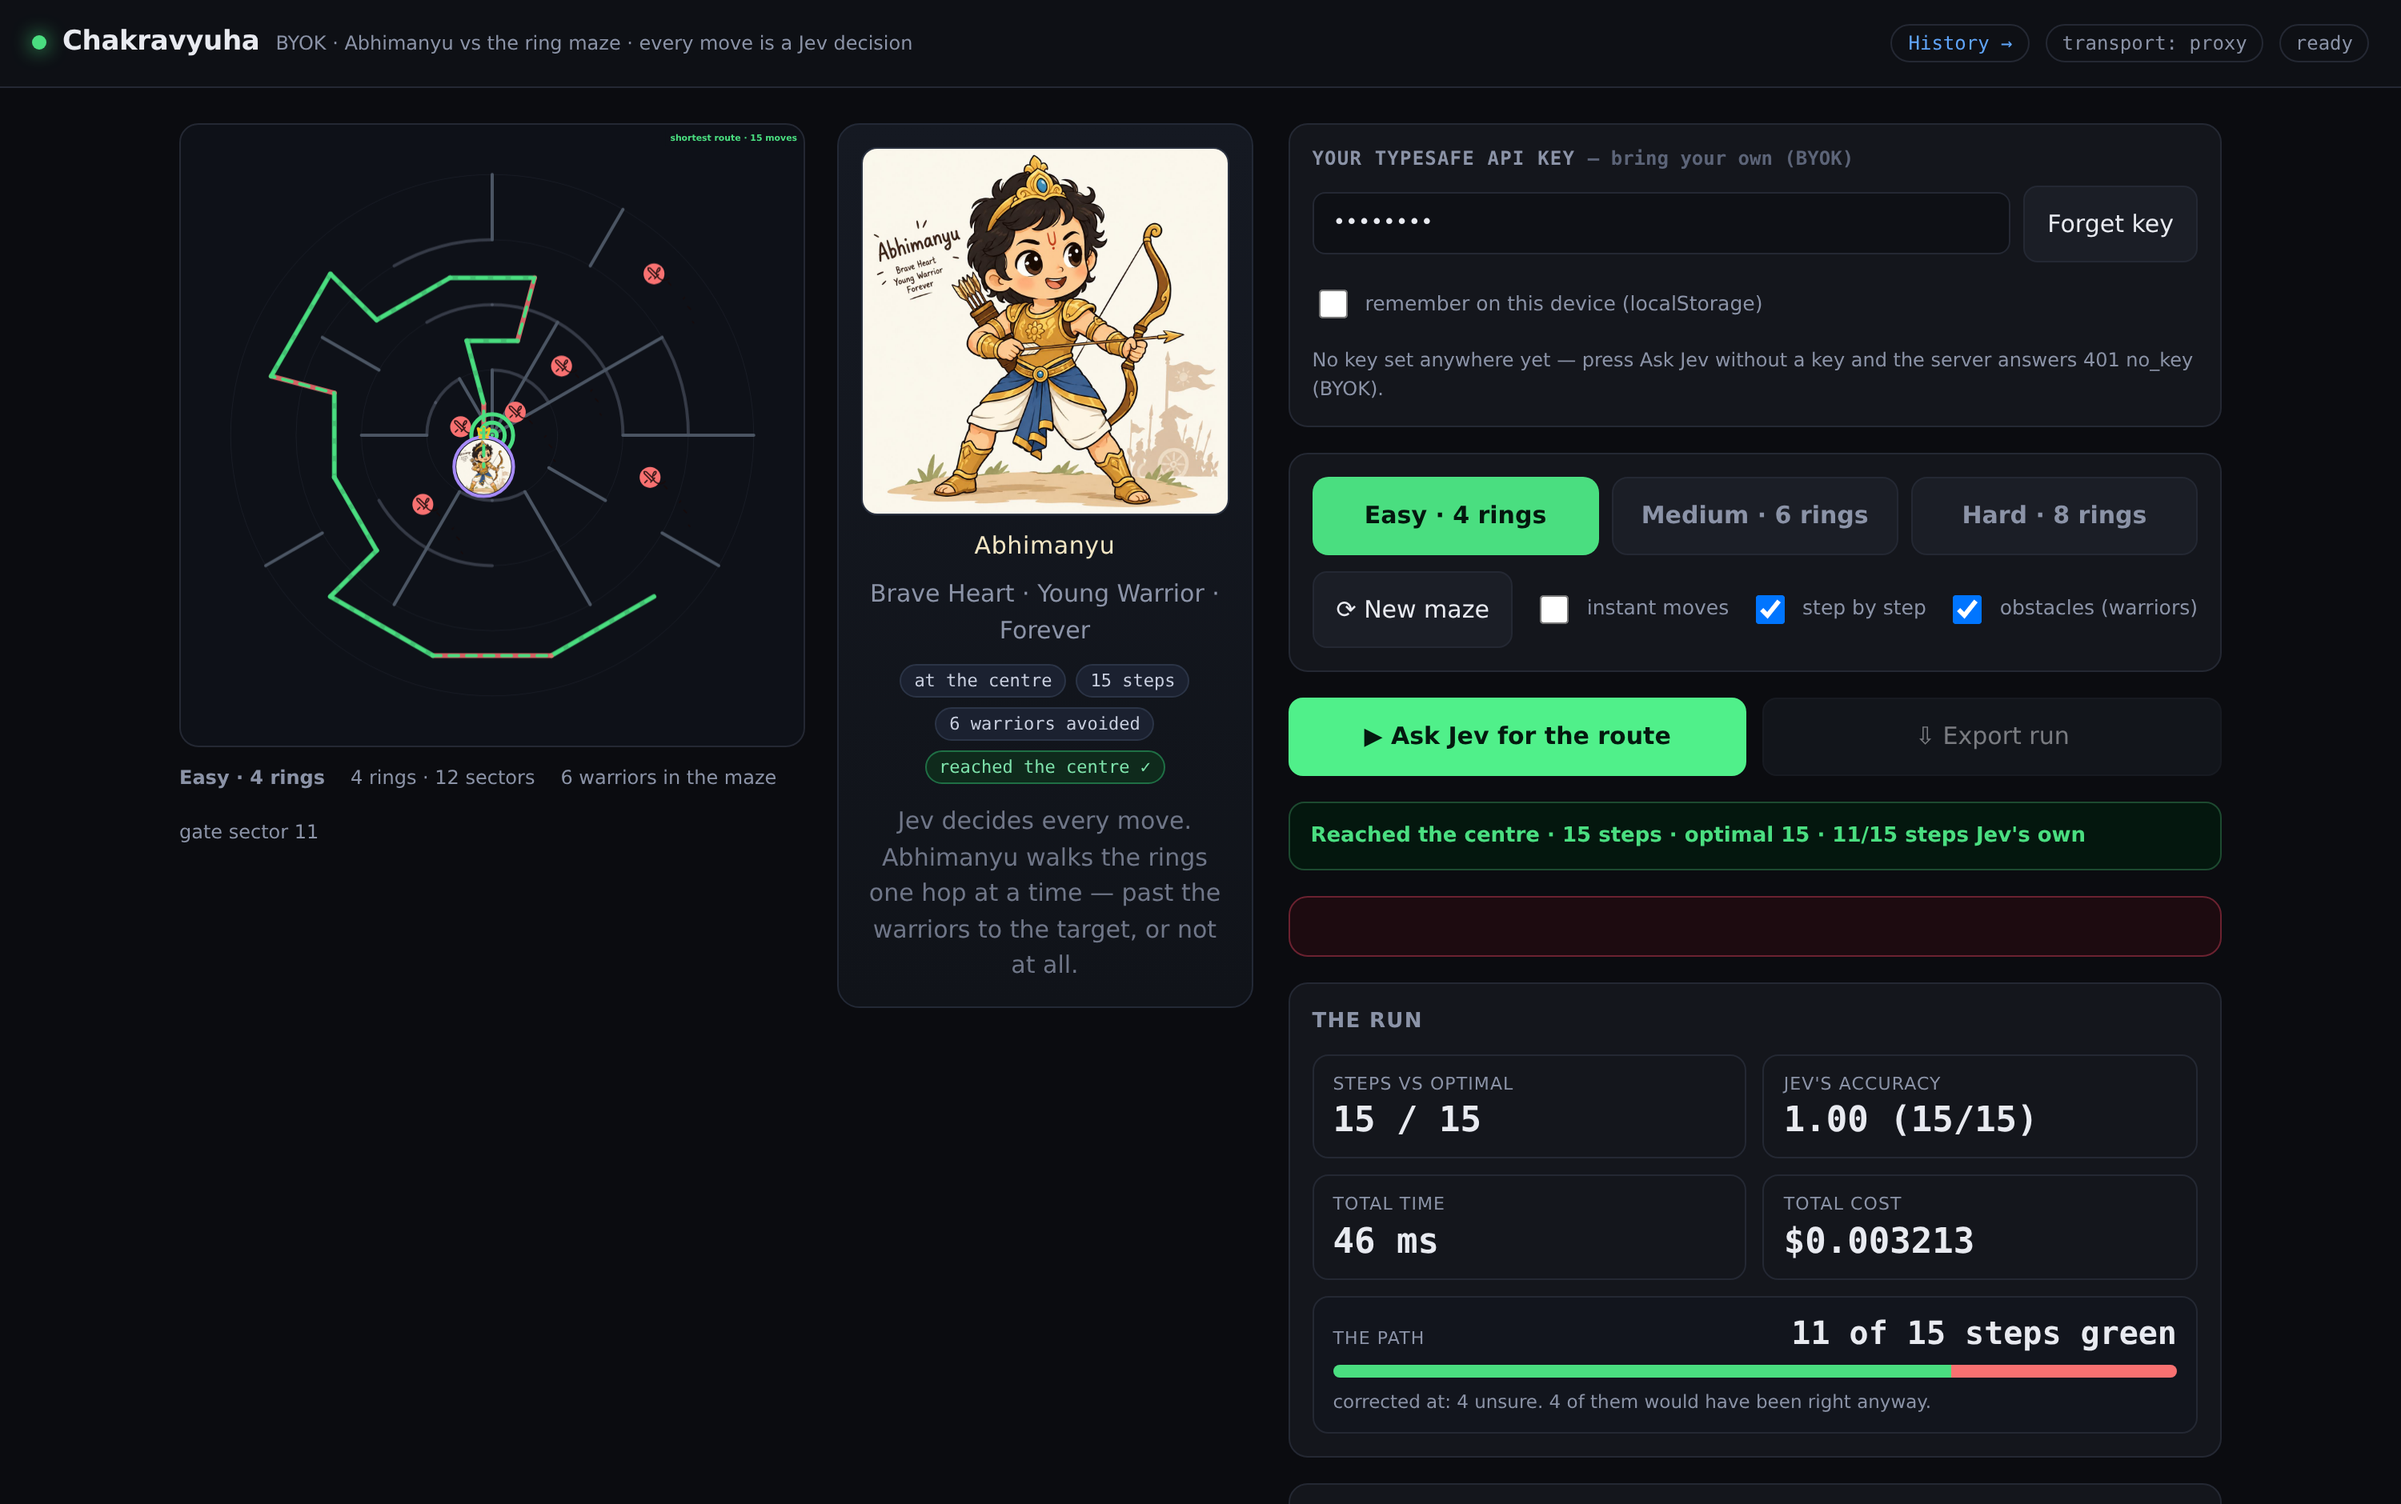
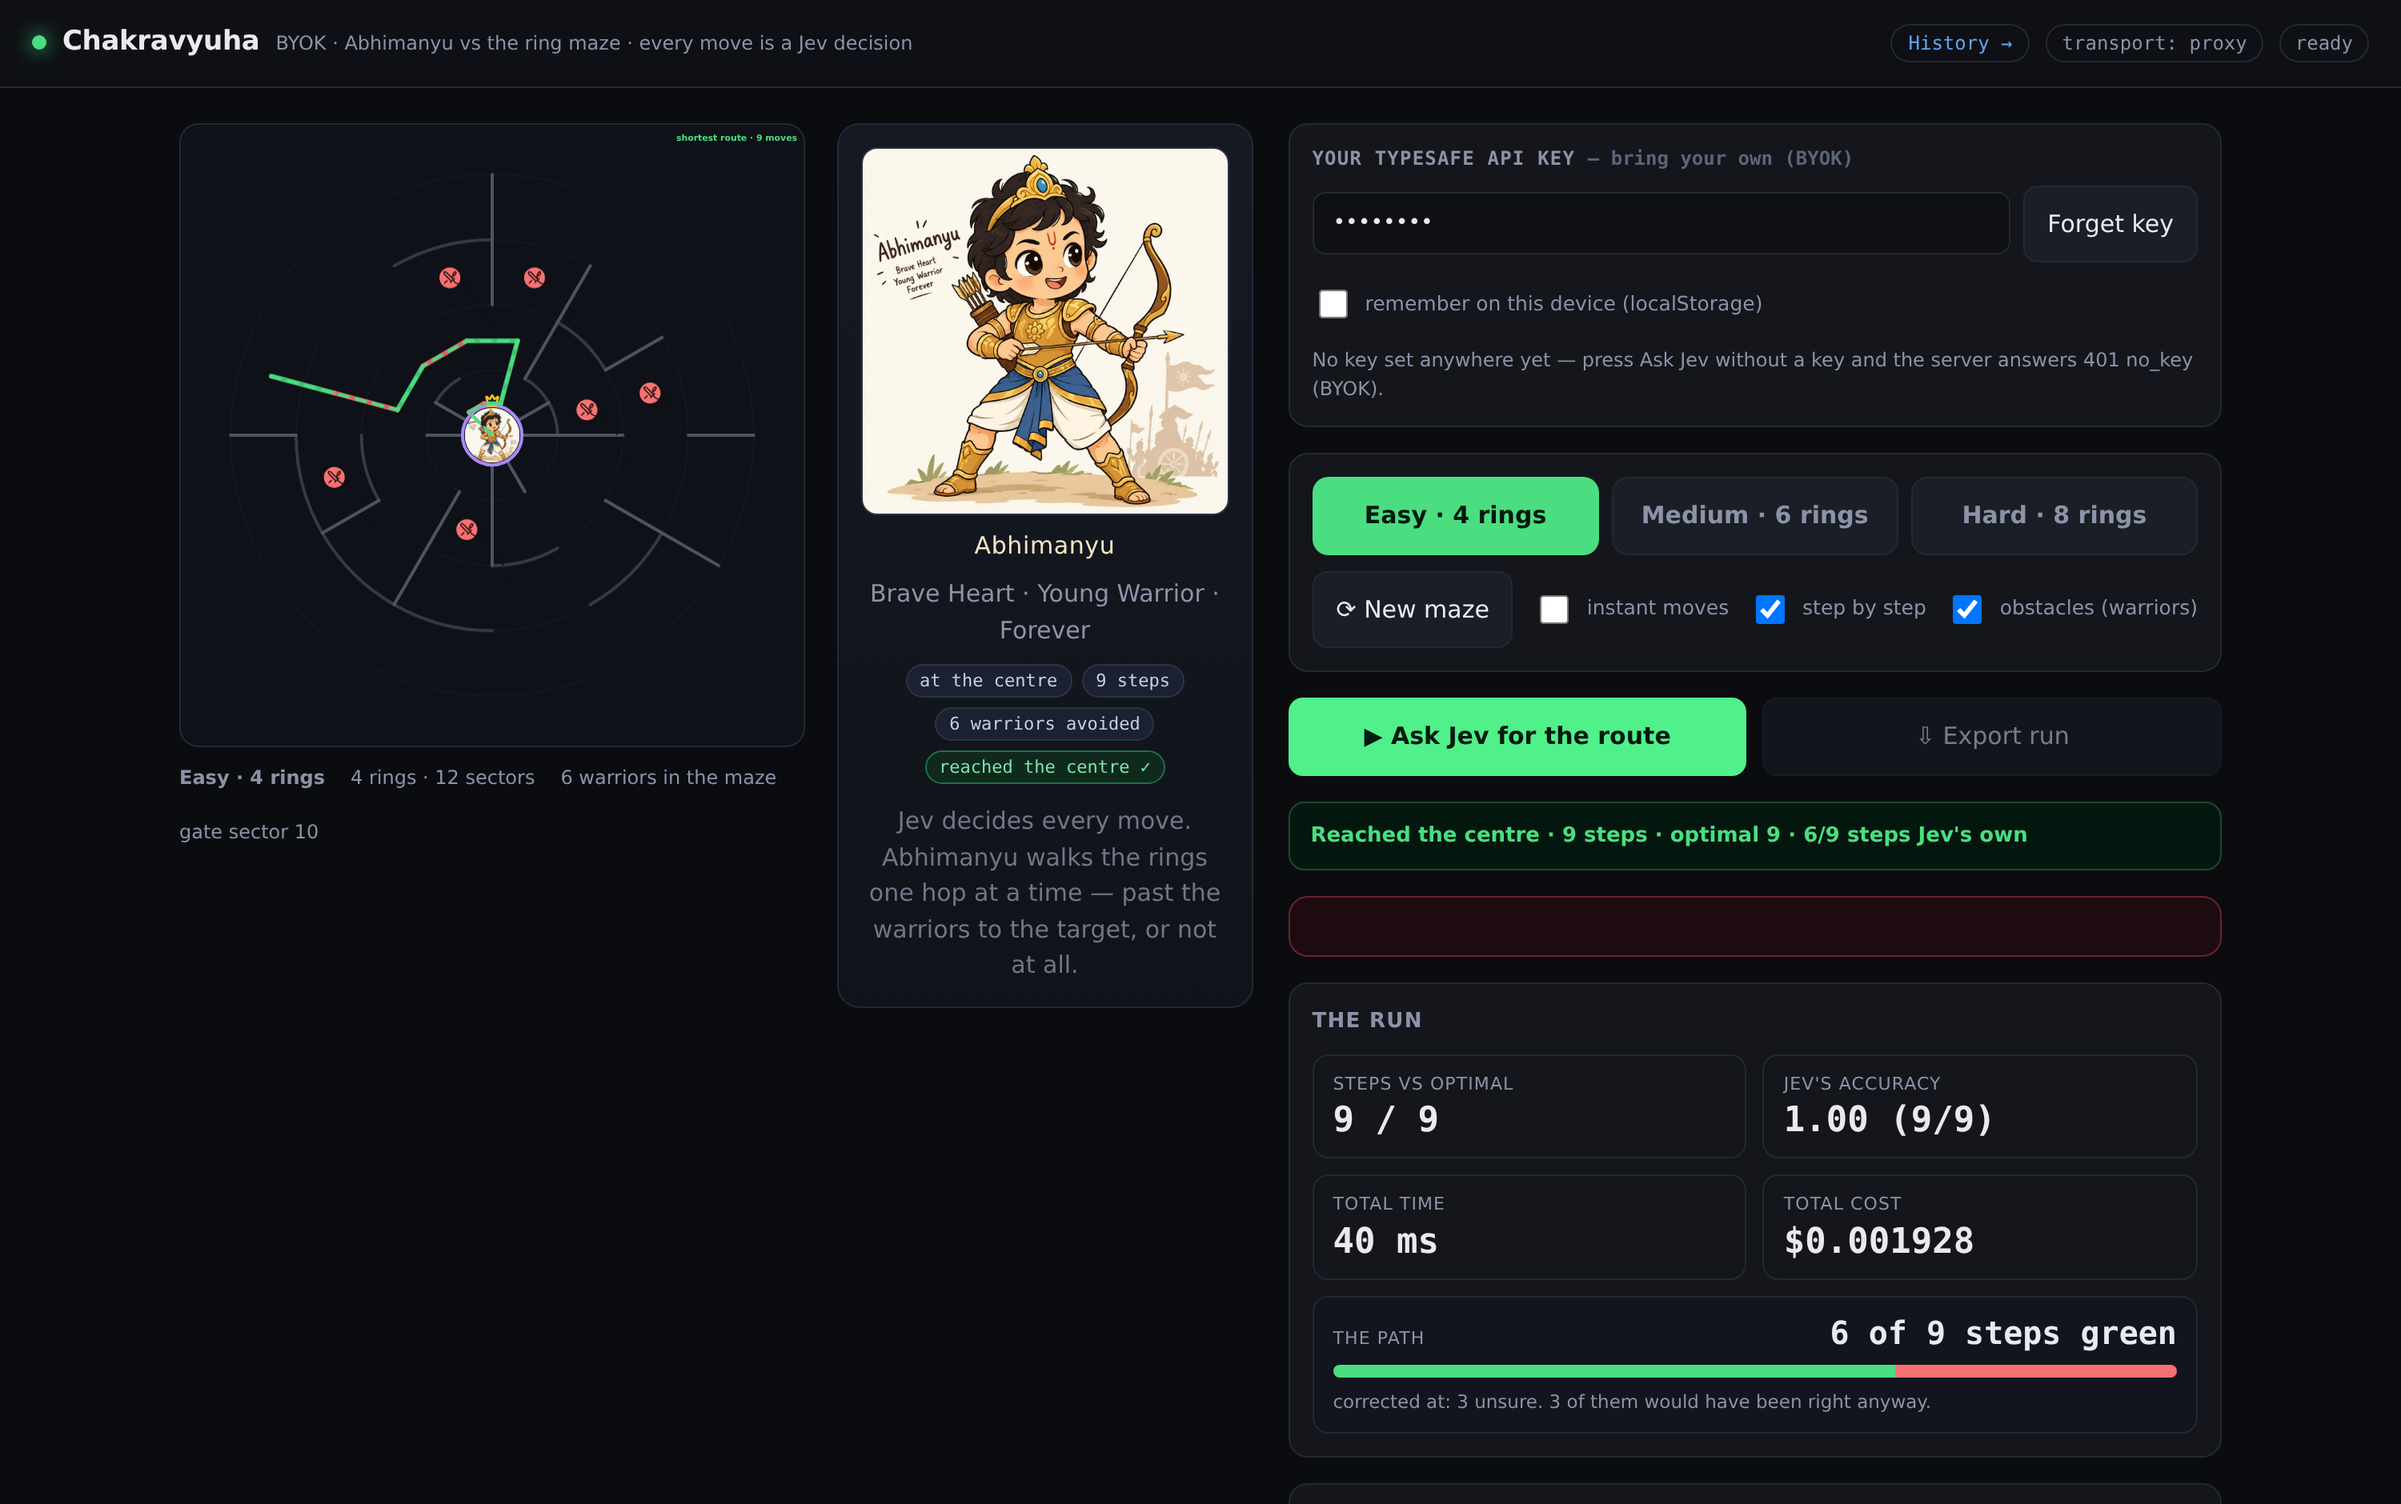
fix: the path crossed a wall — the centre was plotted at a negative radius
Viswa, looking at the board: "I do see the path intersects the wall on a ring..
that is wrong right?" He was right, and it was two bugs wearing one coat.

ROOT CAUSE. centreRadius(0, total, R) returned -0.5 bands, not 0. A negative
radius is not "at the centre" — it is the same distance on the OPPOSITE side. So
the centre cell was plotted diametrically across the board from the gate, and the
final hop from ring 1 into the centre was drawn as a chord sweeping half the
innermost ring, cutting straight through its radial walls. The sprite landed on
the far side of the board too, not on the target.

Exhaustive geometry sweep over every legal move on 36 boards: 94 crossings, and
every single one involved ring 0. Nothing else in the maze was affected — which
is why it looked like a rendering nit rather than a geometry error.

SECOND DEFECT, same root. The animator interpolates through FRACTIONAL rings, so
clamping the radius alone was not enough: a hop into the centre interpolates ring
1 -> 0, and mid-hop the sprite would swing out to the antipodal side and snap
back. And the sector was sweeping from the gate to the centre's conventional 0
while the sprite was still at a positive radius, cutting the ring-1 walls on the
way in AND on the way out (115 further crossings across 128M samples). The centre
is a POINT: it has no sector to travel around, so a hop in or out of it is now
purely radial — the centre borrows the sector of the cell it is joined to.
[…]

diff --git a/skins/chakravyuha.js b/skins/chakravyuha.js
@@ -39,6 +39,63 @@ const COL = {
   dim: '#8b93a7',
 };
 
+// ---- drawing geometry, kept pure so it can be tested without a canvas ------
+// The wall-crossing bug this guards against lived here, and a suite that never
+// asked where a cell was actually drawn could not see it.
+
+/** Canvas position of a cell's centre. `size` is the logical canvas width. */
+export function cellPoint(ring, sector, { R, S, size }) {
+  const maxR = size / 2 - 0.08 * size;
+  const r = centreRadius(ring, maxR, R);
+  const a = centreAngle(sector, S);
+  return { x: size / 2 + r * Math.sin(a), y: size / 2 - r * Math.cos(a) };
+}
+
+/**
+ * Every wall the board draws, as geometry rather than as path commands.
+ * A closed door between rings is an ARC at an integer radius spanning one
+ * sector; a closed door between sectors is a radial LINE at a sector boundary.
+ */
+export function wallGeometry(board, size) {
+  const { R, S } = board;
+  const maxR = size / 2 - 0.08 * size;
+  const unit = maxR / R;
+  const ang = (2 * Math.PI) / S;
+  const arcs = [];
+  const lines = [];
+  for (let i = 1; i < R; i++) {
+    for (let s = 0; s < S; s++) {
+      if (board.openRadial[i - 1][s]) continue;
+      arcs.push({ r: i * unit, a0: s * ang, a1: (s + 1) * ang });
+    }
+  }
+  for (let i = 1; i <= R; i++) {
+    for (let s = 0; s < S; s++) {
+      if (board.openCirc[i - 1][s]) continue;
+      lines.push({ r0: (i - 1) * unit, r1: i * unit, a: (s + 1) * ang });
+    }
+  }
+  return { arcs, lines };
+}
+
+/**
+ * Normalise a hop for interpolation.
+ *
+ * Ring 0 is the centre — a POINT, and its recorded sector 0 is a convention
+ * rather than a direction it can travel in. Sweeping that sector during a hop in
+ * or out of the centre swings the sprite sideways while it is still at a
+ * positive radius, cutting across the innermost ring's radial walls. So the
+ * centre borrows the sector of the cell it is joined to, and the hop stays
+ * purely RADIAL. Position is unaffected either way — radius 0 is the origin for
+ * every sector — so only the path taken to get there changes.
+ */
+export function radialHop(from, to) {
+  return {
+    from: from.ring === 0 ? { ring: 0, sector: to.sector } : from,
+    to: to.ring === 0 ? { ring: 0, sector: from.sector } : to,
+  };
+}
+
 export const chakraSkin = {
   id: 'chakravyuha',
   label: 'Chakravyuha',
@@ -201,7 +258,9 @@ export const chakraSkin = {
     // the list is index-aligned with the segments of `trail`.
     if (!Array.isArray(this.stepVerdicts)) this.stepVerdicts = [];
     this.stepVerdicts.push(h.verdict || null);
-    return this.animator.play([{ from, to, dir: h.dir, step: h.step, pauseAfter: HOP_BEAT }], { S: this.board.S }).then(() => {
+    // A hop in or out of the centre is kept radial — see radialHop().
+    const hop = radialHop(from, to);
+    return this.animator.play([{ from: hop.from, to: hop.to, dir: h.dir, step: h.step, pauseAfter: HOP_BEAT }], { S: this.board.S }).then(() => {
       this.pos = to;
       this.trail.push(to);
       this._publishHook();
@@ -275,13 +334,7 @@ export const chakraSkin = {
   },
 
   _cellPos(ring, sector) {
-    const width = this.canvas.width;
-    const pad = 0.08 * width;
-    const maxR = width / 2 - pad;
-    const R = this.board.R;
-    const r = centreRadius(ring, maxR, R);
-    const a = centreAngle(sector, this.board.S);
-    return { x: width / 2 + r * Math.sin(a), y: width / 2 - r * Math.cos(a) };
+    return cellPoint(ring, sector, { R: this.board.R, S: this.board.S, size: this.canvas.width });
   },
 
   _draw() {
@@ -291,11 +344,10 @@ export const chakraSkin = {
     const ctx = cvs.getContext('2d');
     if (!ctx) return;
     const b = this.board;
-    const R = b.R, S = b.S;
+    const R = b.R;
     const pad = 0.08 * width;
     const maxR = width / 2 - pad;
     const unit = maxR / R;
-    const ang = (2 * Math.PI) / S;
     const mid = width / 2;
 
     ctx.clearRect(0, 0, width, width);
@@ -310,31 +362,25 @@ export const chakraSkin = {
       ctx.stroke();
     }
 
+    const { arcs, lines } = wallGeometry(b, width);
+
     // radial walls: closed doors between ring i and i+1, drawn as arcs
     ctx.strokeStyle = COL.wallSoft;
     ctx.lineWidth = Math.max(1.5, 2 * this.dpr);
-    for (let i = 1; i < R; i++) {
-      for (let s = 0; s < S; s++) {
-        if (b.openRadial[i - 1][s]) continue;
-        ctx.beginPath();
-        ctx.arc(mid, mid, i * unit, s * ang, (s + 1) * ang);
-        ctx.stroke();
-      }
+    for (const w of arcs) {
+      ctx.beginPath();
+      ctx.arc(mid, mid, w.r, w.a0, w.a1);
+      ctx.stroke();
     }
 
     // circular walls: closed doors between sector s and s+1 in ring i
     ctx.strokeStyle = COL.wall;
     ctx.lineWidth = Math.max(1.5, 2 * this.dpr);
-    for (let i = 1; i <= R; i++) {
-      const r0 = (i - 1) * unit, r1 = i * unit;
-      for (let s = 0; s < S; s++) {
-        if (b.openCirc[i - 1][s]) continue;
-        const a = (s + 1) * ang;
-        ctx.beginPath();
-        ctx.moveTo(mid + r0 * Math.sin(a), mid - r0 * Math.cos(a));
-        ctx.lineTo(mid + r1 * Math.sin(a), mid - r1 * Math.cos(a));
-        ctx.stroke();
-      }
+    for (const w of lines) {
+      ctx.beginPath();
+      ctx.moveTo(mid + w.r0 * Math.sin(w.a), mid - w.r0 * Math.cos(w.a));
+      ctx.lineTo(mid + w.r1 * Math.sin(w.a), mid - w.r1 * Math.cos(w.a));
+      ctx.stroke();
     }
 
     // warriors: impassable dots (a swords glyph inside, when the dot is big)

diff --git a/lib/chakra.js b/lib/chakra.js
@@ -71,9 +71,23 @@ export function cellKey(ring, sector) {
   return `${ring},${sector}`;
 }
 
-/** Radius of the centre circle for a given ring index. */
+/**
+ * Radius of the centre circle for a given ring index.
+ *
+ * Rings 1..R sit at the middle of their band: ring i is at (i - 0.5) bands out.
+ * Ring 0 is the centre — a POINT at the origin, not a band — so its radius is 0.
+ * The formula alone gives -0.5 bands there, and a negative radius does not mean
+ * "at the centre": it means the same distance on the OPPOSITE side. That put the
+ * centre cell diametrically across the board from the gate, so the final hop was
+ * drawn as a chord sweeping half the innermost ring and cutting straight through
+ * its walls.
+ *
+ * The clamp also covers the FRACTIONAL rings the animator feeds in mid-hop: a hop
+ * into the centre interpolates ring 1 → 0, and without the clamp the sprite would
+ * swing out to the antipodal side at ring 0.5 and snap back at ring 0.
+ */
 export function centreRadius(ring, totalRadius, numRings) {
-  return ((ring - 0.5) / numRings) * totalRadius;
+  return Math.max(0, ((ring - 0.5) / numRings) * totalRadius);
 }
 
 /** Sector angle in radians, measured clockwise from the top. */

diff --git a/README.md b/README.md
@@ -88,12 +88,16 @@ The page refuses to overclaim. A flawless record under **20 confident steps** is
 the score actually **separates** high confidence from low — a score that ranked high below
 low would be worse than no score, and the page says so in as many words.
 
-Current state on our own history (45 recorded runs, 8 of which carry per-step confidence):
-**high 10/10, medium 14/18, low 17/25**. High beats low by 32 points, so the score does
-discriminate rather than being noise. But 10 confident steps is still short of the 20 the
-page wants before it will call the score reliable, so it says *suggestive, not yet
-conclusive* rather than declaring victory — which is exactly the behaviour we wanted from
-it.
+Current state on our own history — a snapshot, dated **2026-09-18**, over 25 runs and 388
+graded steps: **high 60/74 (81%), medium 80/128 (63%), low 107/186 (58%)**. High beats low
+by 24 points, so the score does separate the two rather than being noise.
+
+But 81% is not a promise. High confidence was **wrong 14 times**. The page says so in as
+many words — *"a confident move is not a guarantee; the score is a hint, not a promise"* —
+and that is the honest answer to the question we started with. It is also not the answer we
+were hoping for: an earlier, smaller sample showed high at 10/10 with no misses, and it
+would have been easy to stop there and call the score trustworthy. More runs made the
+picture worse and the write-up better.
 
 ## How a run works
 
@@ -319,6 +323,12 @@ against a **mock upstream HTTP server**, so there is no stub standing in for any
 - `history.test.mjs` — the calibration arithmetic itself, run rather than merely present:
   per-band tallies, silence excluded from both sides, and the refusal to call a small
   sample reliable.
+- `geometry.test.mjs` — **what the board actually draws**: that the centre is plotted
+  at the canvas centre (not at a negative radius on the far side of the board), and that
+  **no legal move's drawn segment crosses a drawn wall** — checked exhaustively over every
+  legal move on many boards, for both the static path and the sprite's interpolated hop.
+  These use the skin's own geometry helpers, so they check the canvas rather than a copy
+  of it.
 - `server` / `static` / `subpath` / `transport` / `debug-log` / `stats` / `icons` — the
   HTTP layer, the asset allowlist, the subpath proxy, the BYOK store, the redacted debug
   log, and the vendored Lucide geometry.
